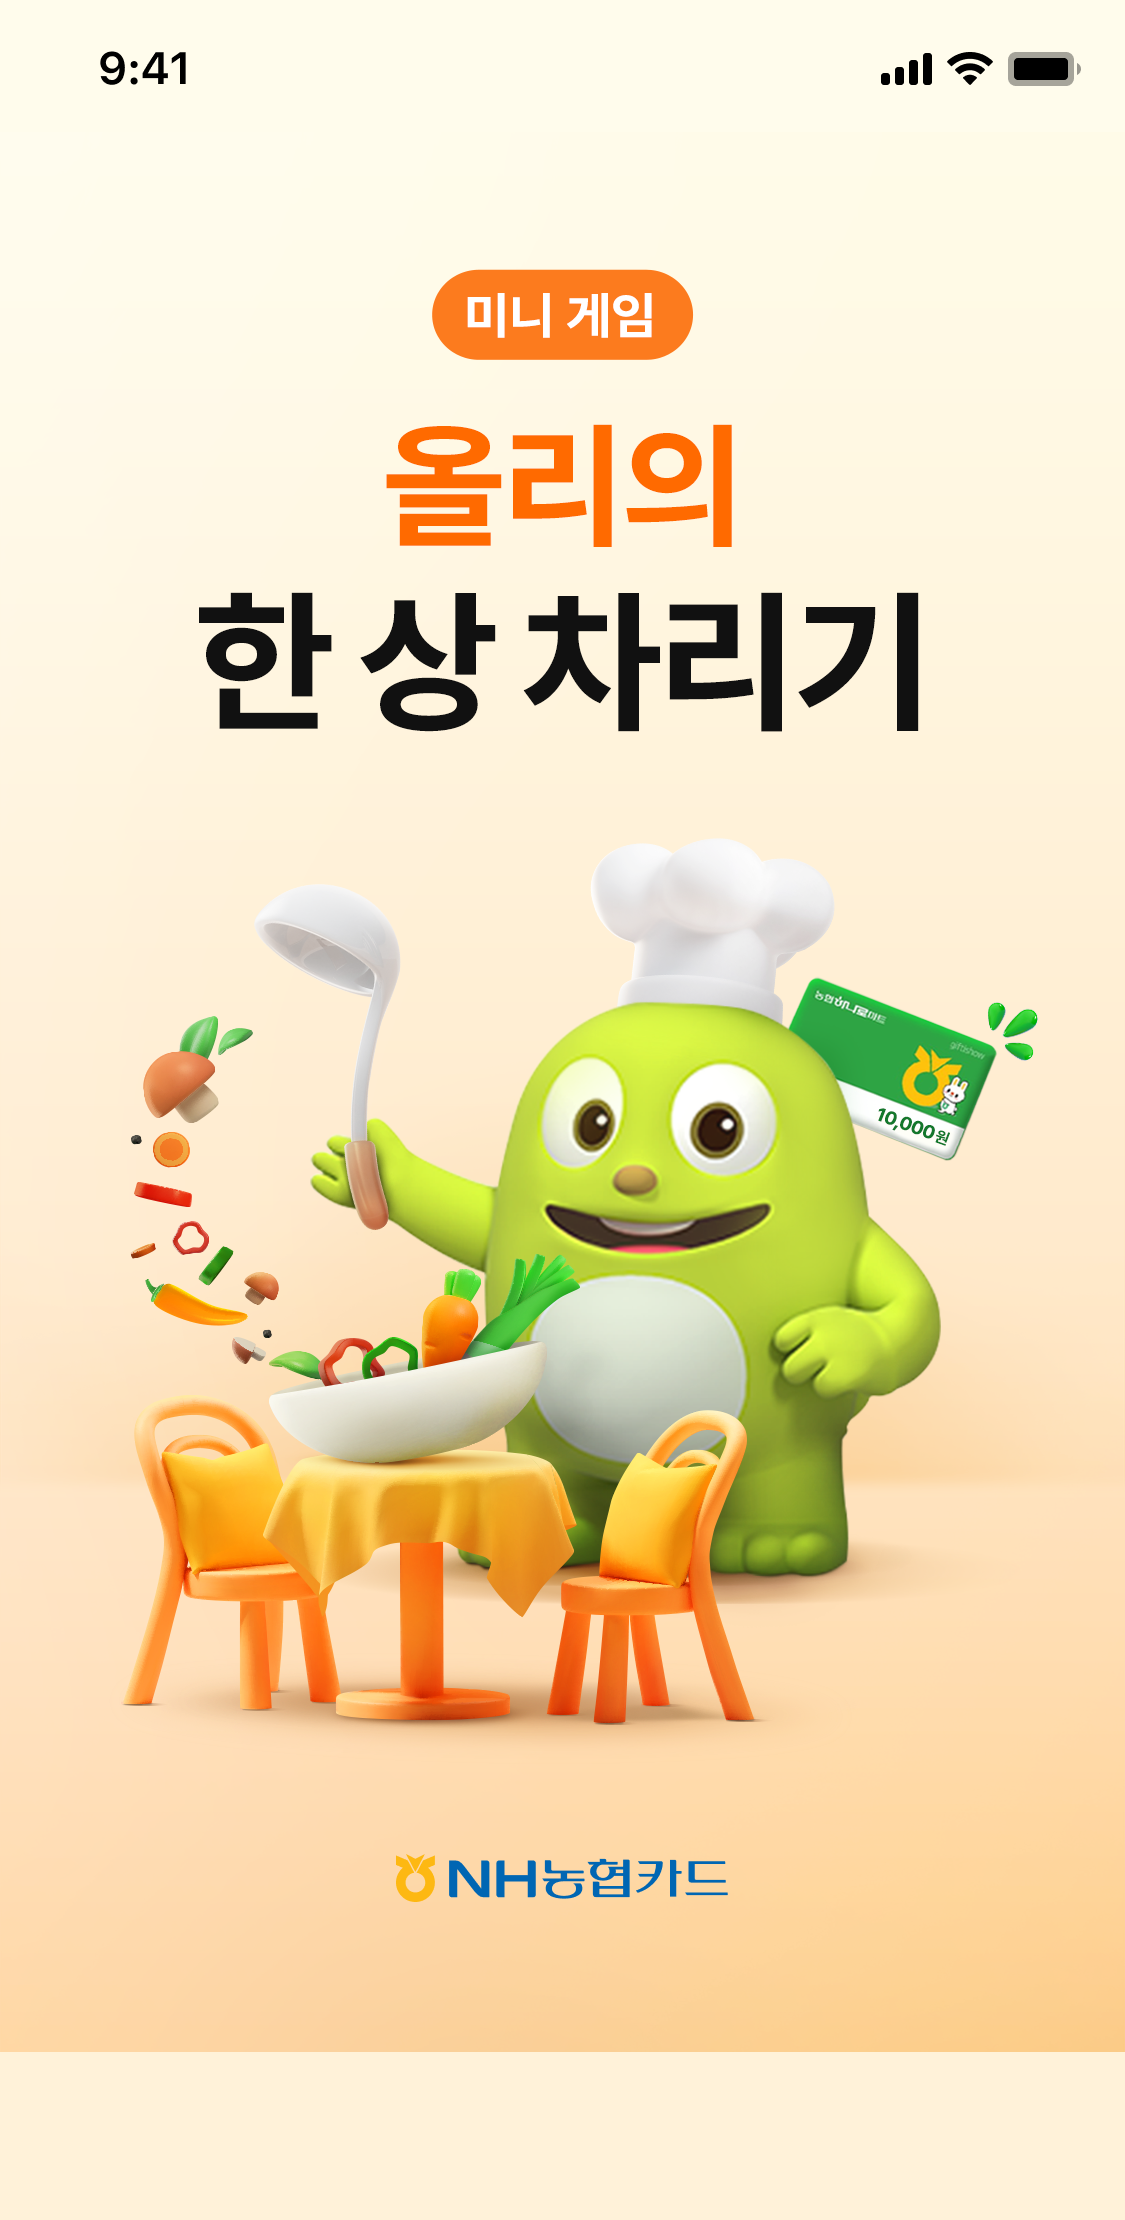
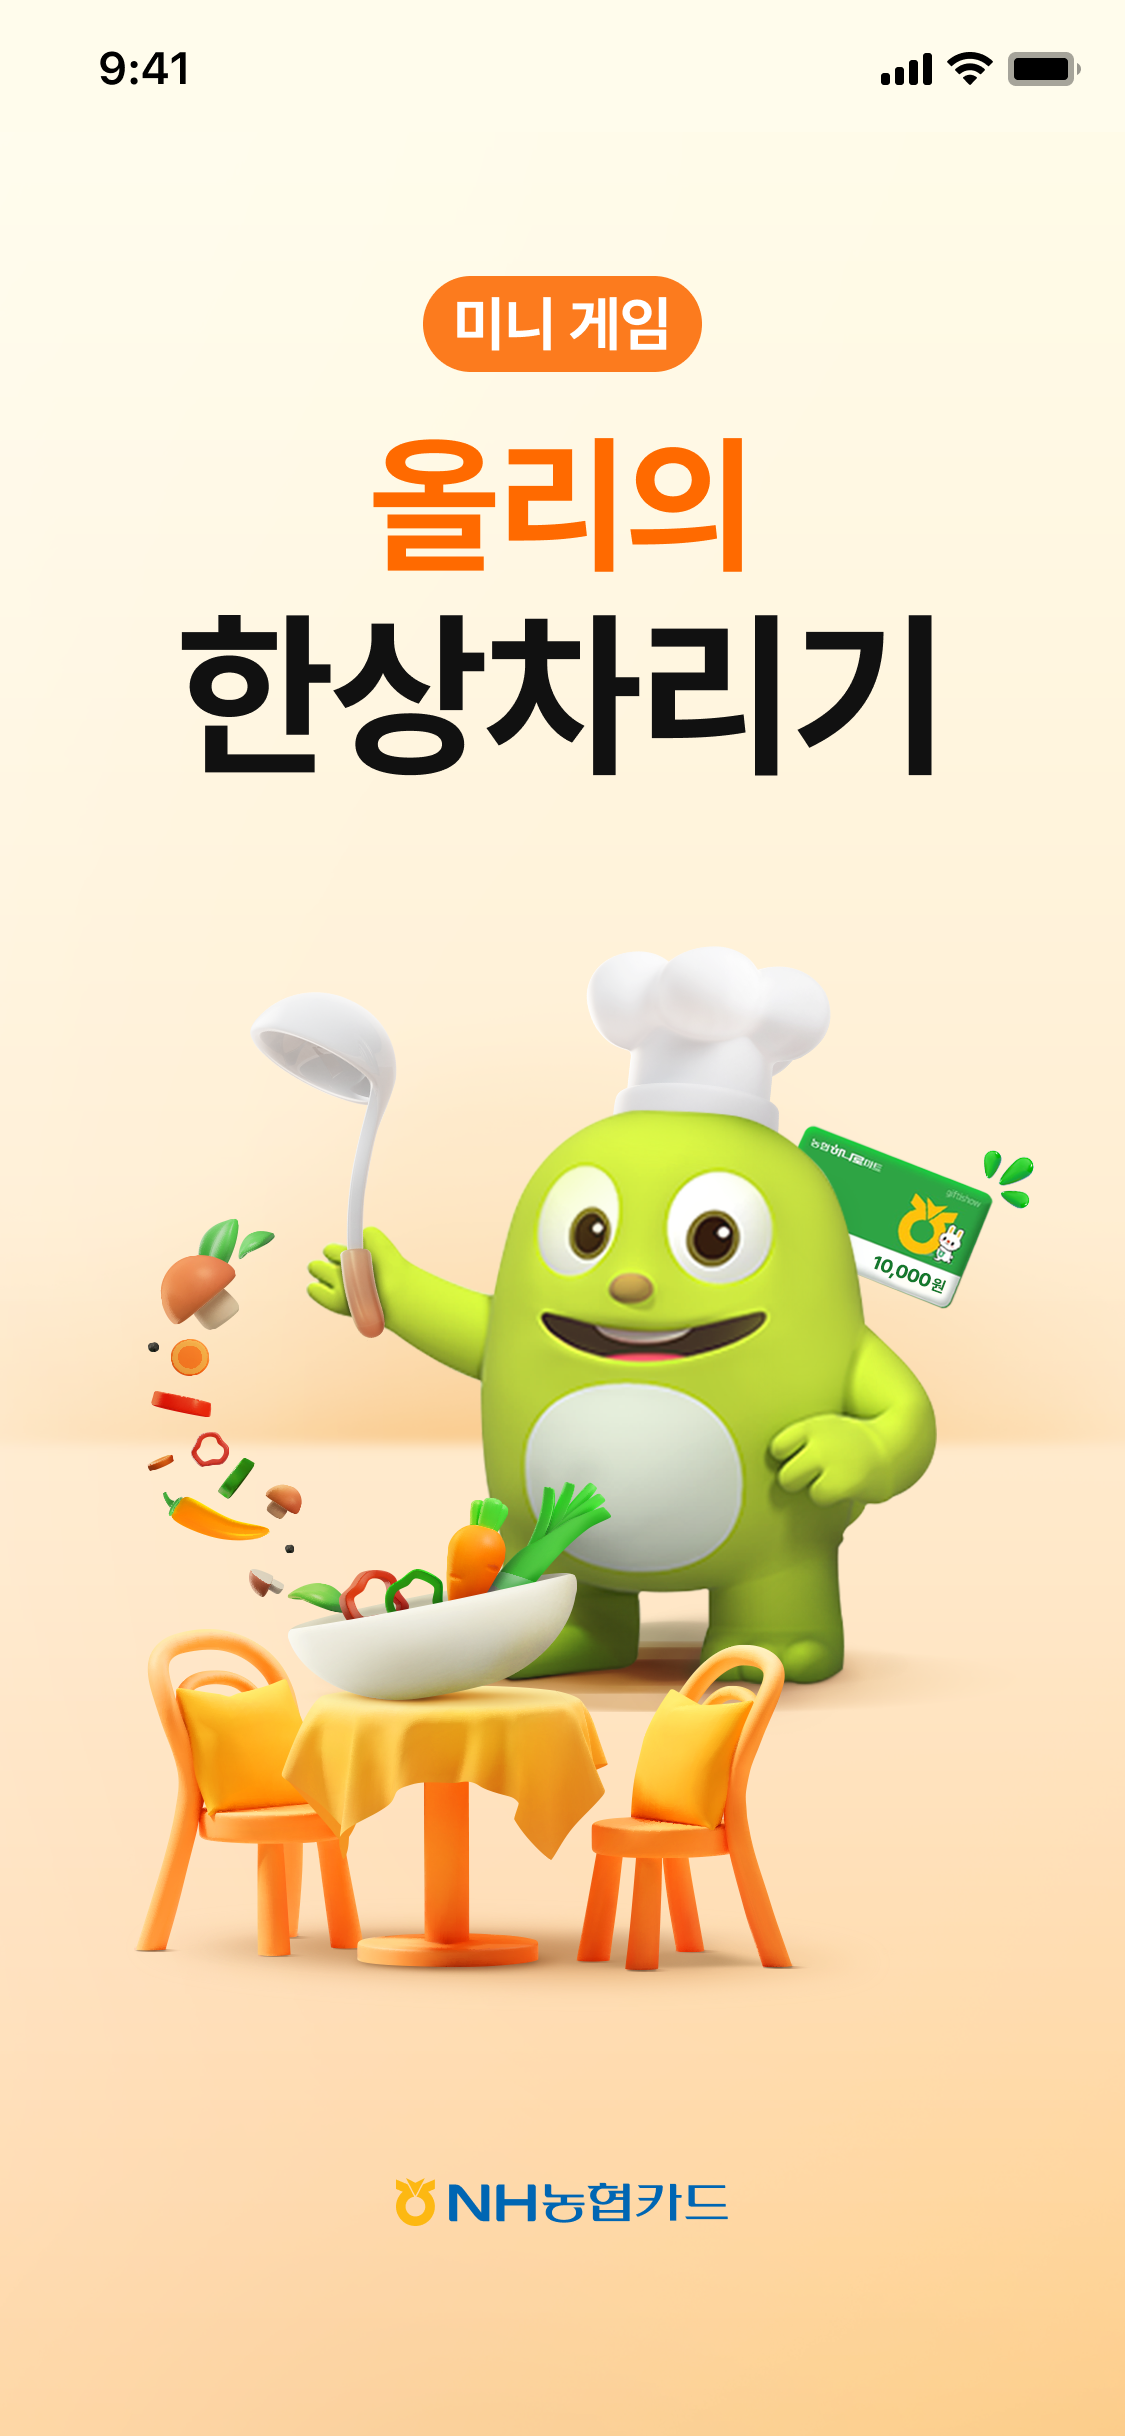
a안 이벤트

diff --git a/a_event_tset.html b/a_event_tset.html
@@ -7,43 +7,147 @@
     <title>Document</title>
     <style>
         /* 인트로 */
-        .intro{position: absolute; top: 0; left: 0; animation: intro 1s 0.5s ease-in forwards;}
+        .intro{position: absolute; top: 0; left: 0; width: 100%; height: 100%; animation: intro 1s 0.5s ease-in forwards;}
         @keyframes intro{0%{opacity: 1;}100%{opacity: 0;}}
-
+        
+        
         /* 셀렉 */
+        .select{position: absolute; top: 0; left: 0; width: 100%; height: 100%;}
         .select > * {position:absolute;}
         .select a{width:20px;height:20px;background:#000;z-index:1;}
         .select a:first-of-type{top:60px;left:20px;}
         .select a:last-of-type{top:60px;right:25px;}
         .select button{background:#000;width:343px;height:48px;bottom:16px;left:16px;z-index:1;cursor:pointer;}
         
-        /* 뚝빼기 */
-        .cooking{background: url(./res/a-images/event/cooking.png) no-repeat;width:100%;background-size:contain;height:100%;display:none;}
+        /* 로딩 */
+        .loding_wrap{position:absolute;top:0;left:0;width:100%;height:100%;background:url(./res/a-images/event/loding.png) no-repeat;background-size:contain;display:none;z-index:100;}
+        .center_lo{width:50%;margin:0 auto;text-align:center;position:absolute;top:415px;left:50%;transform:translate(-50%, -50%);z-index:100;}
+        .dot{display:inline-block;width:10px;height:10px;background-color:gray;border-radius:50%;animation:loding 1s 0s linear infinite;background-color:#ff6a00;}
+        .dot:nth-child(1){animation-delay:0s;}
+        .dot:nth-child(2){animation-delay:0.2s;}
+        .dot:nth-child(3){animation-delay:0.4s;}
+        @keyframes loding {0%,100%{opacity: 0;transform: scale(0.5);}50%{opacity: 1;transform: scale(1.2);}}
+        
+        .progress_bar{position:absolute;top:200px;left:50%;transform:translateX(-50%);width:247px;height:12px;background-color:#fff;border-radius:10px;}
+        .progress_bar div{width: 0; height:100%;background:linear-gradient(90deg, #FF6A00 0%, #FF3B29 100%);border-radius:10px; transition: all .5s;}
+        .progress_bar div::after{content: "";position:absolute;height:38px;top:-15px;left:-15px;display:inline-block;width: 32px;background: url(/res/a-images/event/character.png) no-repeat;background-size:contain;}
+        .cooking.on .progress_bar div{ animation: progressBar 3s 2s ease-in-out forwards;}
+        .cooking.on .progress_bar div::after{ animation: character1 3s 2s ease-in-out forwards, character2 .7s 2.3s ease-in-out infinite;}
+        @keyframes progressBar {
+            0%{width: 0;}
+            100%{width: 80%;}
+        }
+        @keyframes character1 {
+            0%{left: -15px;}
+            100%{left: 175px;}
+        }
+        @keyframes character2 {
+            0%,100%{transform: scale(1.2);}
+            100%{transform: scale(1);}
+        }
+        .number{position:absolute;top:234px;left:50%;transform:translateX(-50%);color:#FF5638;font-size:16px;font-weight:700;background-color:#fff;padding:4px 11.5px;border-radius:20px;}
+        .number .count{display:inline-block;}
+        /* 조리 start */
+        .cooking{position:absolute;top:0;left:0; width: 100%; height: 100%;background: url(./res/a-images/event/cooking.png) no-repeat;width:100%;background-size:contain;height:100%;display:none; z-index: 20;}
+        .txt{position: absolute; width:221px;top:134px;left:50%;transform:translateX(-50%);opacity: 0; transition: all .7s;}
+        .cooking.on .txt{animation: txt .7s 3s ease-in-out forwards;}
+        @keyframes txt{100%{opacity: 1; top: 124px;}}
+        
+        /* 탕보다 인덱스 낮은애들 3, 탕보다 높은애들9, 탕5  */
         .pot{position:absolute;width:278px;top:349px;left:48px;}
         .pot img:last-of-type{position:absolute;width:264px;top:2px;left:7px; z-index: 2;} /* 탕 */
+        .vegetable > img{position: absolute;}
 
         /* 야채 */
-        .vegetable > img{position: absolute;}
-        /* 탕보다 인덱스 낮은애들 3, 탕보다 높은애들9, 탕5  */
-        .vegetable img:nth-of-type(1){width:90px;top:331px;left:67px;z-index:9;}/* 도착지점임, 시작은 top 90px 쯤예상 */
-        .vegetable img:nth-of-type(2){height:140px;top:317px;left:233px;z-index:9;}
-        .vegetable img:nth-of-type(3){width:33px;top:349px;left:151px;z-index:9;}
-        .vegetable img:nth-of-type(4){width:72px;top:326px;left:167px;z-index:9;}
-        .vegetable img:nth-of-type(5){width:24px;top:349px;left:52px;}
-        .vegetable img:nth-of-type(6){width:16px;top:346px;left:123px;}
-        .vegetable img:nth-of-type(7){width:212px;top:388px;left:93px;z-index:9;}
+        .vegetable img:nth-of-type(1){width:90px;top:331px;left:67px;z-index:9; opacity: 0;}
+        .cooking.on .vegetable img:nth-of-type(1){animation: vegetable1 2s ease-in-out forwards;}
+        .vegetable img:nth-of-type(2){height:140px;top:317px;left:233px;z-index:9; opacity: 0;}
+        .cooking.on .vegetable img:nth-of-type(2){animation: vegetable2 1.5s ease-in-out forwards;}
+        .vegetable img:nth-of-type(3){width:33px;top:349px;left:151px;z-index:9; opacity: 0;}
+        .cooking.on .vegetable img:nth-of-type(3){animation: vegetable3 2s cubic-bezier(0.1, 0.82, 0.5, 1) forwards;}
+        .vegetable img:nth-of-type(4){width:72px;top:326px;left:167px;z-index:9; opacity: 0;}
+        .cooking.on .vegetable img:nth-of-type(4){animation: vegetable4 2s cubic-bezier(0.1, 0.82, 0.5, 1) forwards;}
+        .vegetable img:nth-of-type(5){width:24px;top:349px;left:52px; opacity: 0;}
+        .cooking.on .vegetable img:nth-of-type(5){animation: vegetable5 2s 1s cubic-bezier(0.1, 0.82, 0.3, 1) forwards;}
+        .vegetable img:nth-of-type(6){width:16px;top:346px;left:123px; opacity: 0;}
+        .cooking.on .vegetable img:nth-of-type(6){animation: vegetable6 2s 1s cubic-bezier(0.1, 0.82, 0.3, 1) forwards;}
+        .vegetable img:nth-of-type(7){width:212px;top:388px;left:93px;z-index:9; opacity: 0; transition: all 0.3s;}
+        .cooking.on .vegetable img:nth-of-type(7){animation:vegetable8 1s 2.5s forwards ,vegetable7 4s 5s cubic-bezier(0.1, 0.82, 0.3, 1) infinite;}
+        .vegetable img:nth-of-type(8){width:162px;top:415px;left:117px;z-index:9;opacity: 0; transition: all 0.7s;}
+        .cooking.on .vegetable img:nth-of-type(8){animation: vegetable8 3s 2s cubic-bezier(0.1, 0.82, 0.3, 1) forwards;}
+        @keyframes vegetable1{
+            0%{ opacity: 0; top: 90px; transform: rotate(0deg); }
+            100%{ opacity: 1; top: 331px; transform: rotate(365deg); }
+        }
+        @keyframes vegetable2{
+            0%{ opacity: 0; top: 77px; transform: rotate(0deg); }
+            100%{ opacity: 1; top: 317px; transform: rotate(365deg); }
+        }
+        @keyframes vegetable3{
+            0%{ opacity: 0; top: 77px; transform: rotate(0deg); }
+            100%{ opacity: 1; top: 349px; transform: rotate(365deg); }
+        }
+        @keyframes vegetable4{
+            0%{ opacity: 0; top: 77px; transform: rotate(0deg); }
+            100%{ opacity: 1; top: 326px; transform: rotate(365deg); }
+        }
+        @keyframes vegetable5{
+            0%{ opacity: 0; top: 77px; transform: rotate(0deg); }
+            100%{ opacity: 1; top: 349px; transform: rotate(365deg); }
+        }
+        @keyframes vegetable6{
+            0%{ opacity: 0; top: 77px; transform: rotate(0deg); }
+            100%{ opacity: 1; top: 346px; transform: rotate(365deg); }
+        }
+        @keyframes vegetable7{
+            0%,100%{opacity: 0.5;}
+            50%{opacity: 1;}
+        }
+        @keyframes vegetable8{
+            0%{ opacity: 0;  }
+            100%{ opacity: 1;  }
+        }
+        /* 연기 */
+        .vegetable img:nth-of-type(9){width:22px;top:348px;left:133px;z-index:30; animation: smoke1 5s ease-in-out infinite;}
+        .vegetable img:nth-of-type(10){width:38px;top:308px;left:173px;z-index:30; animation: smoke2 5s ease-in infinite;}
+        .vegetable img:nth-of-type(11){width:18px;top:358px;left:223px;z-index:30; animation: smoke3 5s ease-in-out infinite;}
+ 
+        @keyframes smoke1{
+            0%{ opacity: 0;}
+            100%{top:248px; left: 120px; width: 30px; opacity: 1;}
+        }
+        @keyframes smoke2{
+            0%{ opacity: 0;}
+            90%{width: 30px; opacity: 0;top:250px;left: 160px;opacity: .7;}
+            100%{width: 30px; opacity: 0;top:250px;left: 160px;opacity: 0;}
+
+        }
+        @keyframes smoke3{
+            0%{ opacity: 0;}
+            100%{width: 25px;top:330px;}
+        }
+
+        /* 불 */
+
+        /* 조리 end */
+
 
     </style>
 </head> 
 <body>
     <div class="container">
-        <div class="select">
-            <a href=""></a>
-            <img src="./res/a-images/event/select.png" alt="">
-            <a href=""></a>
-            <button></button>
-        </div>
+        <!-- 4번 노출 -->
         <div class="cooking">
+            <div class="txt">
+                <img src="./res/a-images/event/txt.png" alt="">
+            </div>
+            <div class="progress_bar">
+                <div></div>
+            </div>
+            <div class="number">
+                <div class="count">0%</div> 완성중
+            </div>
+
             <div class="pot">
                 <img src="./res/a-images/event/pot1.png" alt="">
                 <img src="./res/a-images/event/pot3.png" alt="">
@@ -57,8 +161,28 @@
                 <img src="./res/a-images/event/vegetable6.png" alt="">
                 <img src="./res/a-images/event/vegetable7.png" alt="">
                 <img src="./res/a-images/event/vegetable8.png" alt="">
+                <img src="./res/a-images/event/smoke1.png" alt="">
+                <img src="./res/a-images/event/smoke2.png" alt="">
+                <img src="./res/a-images/event/smoke3.png" alt="">
+
             </div>
         </div>
+        <!-- 3번 노출 -->
+        <a href="#" class="loding_wrap">
+            <div class="center_lo">
+                <span class="dot"></span>
+                <span class="dot"></span>
+                <span class="dot"></span>
+            </div>
+        </a>
+        <!-- 2번 노출 -->
+        <div class="select">
+            <a href=""></a>
+            <img src="./res/a-images/event/select.png" alt="">
+            <a href=""></a>
+            <button></button>
+        </div>
+        <!-- 1번 노출 -->
         <div class="intro">
             <img src="./res/a-images/event/intro.png" alt="">
         </div>
@@ -67,12 +191,35 @@
         const select = document.querySelector(".select");
         const cooking = document.querySelector(".cooking");
         const intro = document.querySelector(".intro");
+        const lodingWrap = document.querySelector(".loding_wrap");
 
         document.querySelector(".select button").addEventListener('click', function(){
             select.style.display = "none";
             intro.style.display = "none";
+            lodingWrap.style.display = "block";
             cooking.style.display = "block";
         })
+        lodingWrap.addEventListener('click', function(){
+            lodingWrap.style.display = "none";
+            cooking.classList.add('on');
+            setTimeout( function(){
+                increaseNumber(); 
+            },3000);
+
+        })
+
+        let currentNumber = 0 ;
+        const targetNumber = 80 ;
+        const incrementSpeed = 20;
+        function increaseNumber() {
+            if (currentNumber < targetNumber) {
+                currentNumber++;
+                document.querySelector('.count').innerText = currentNumber  + "%";
+                setTimeout(increaseNumber, incrementSpeed);
+            } else {
+                document.querySelector('.count').innerText = targetNumber + "%"; // 마지막 숫자
+            }
+        }
     </script>
 </body>
 </html>
